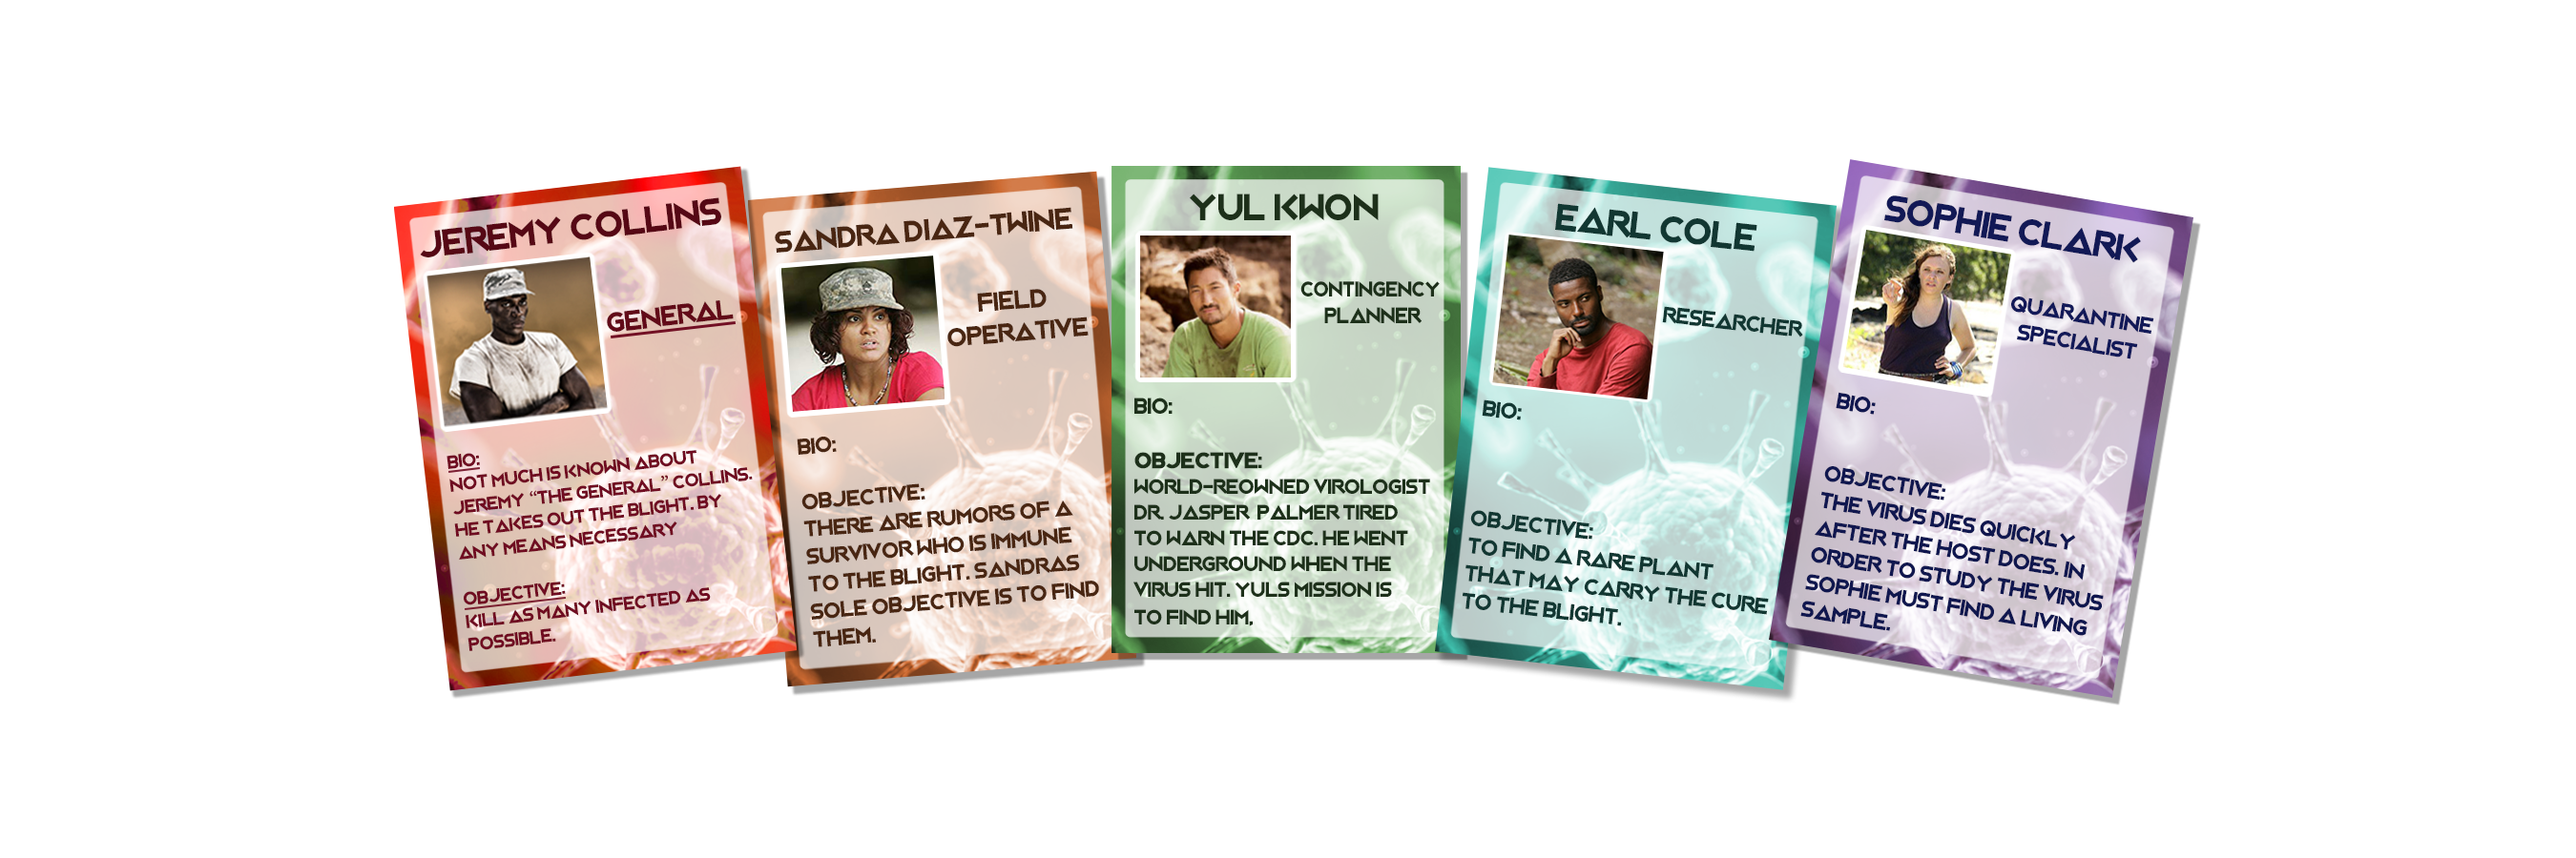
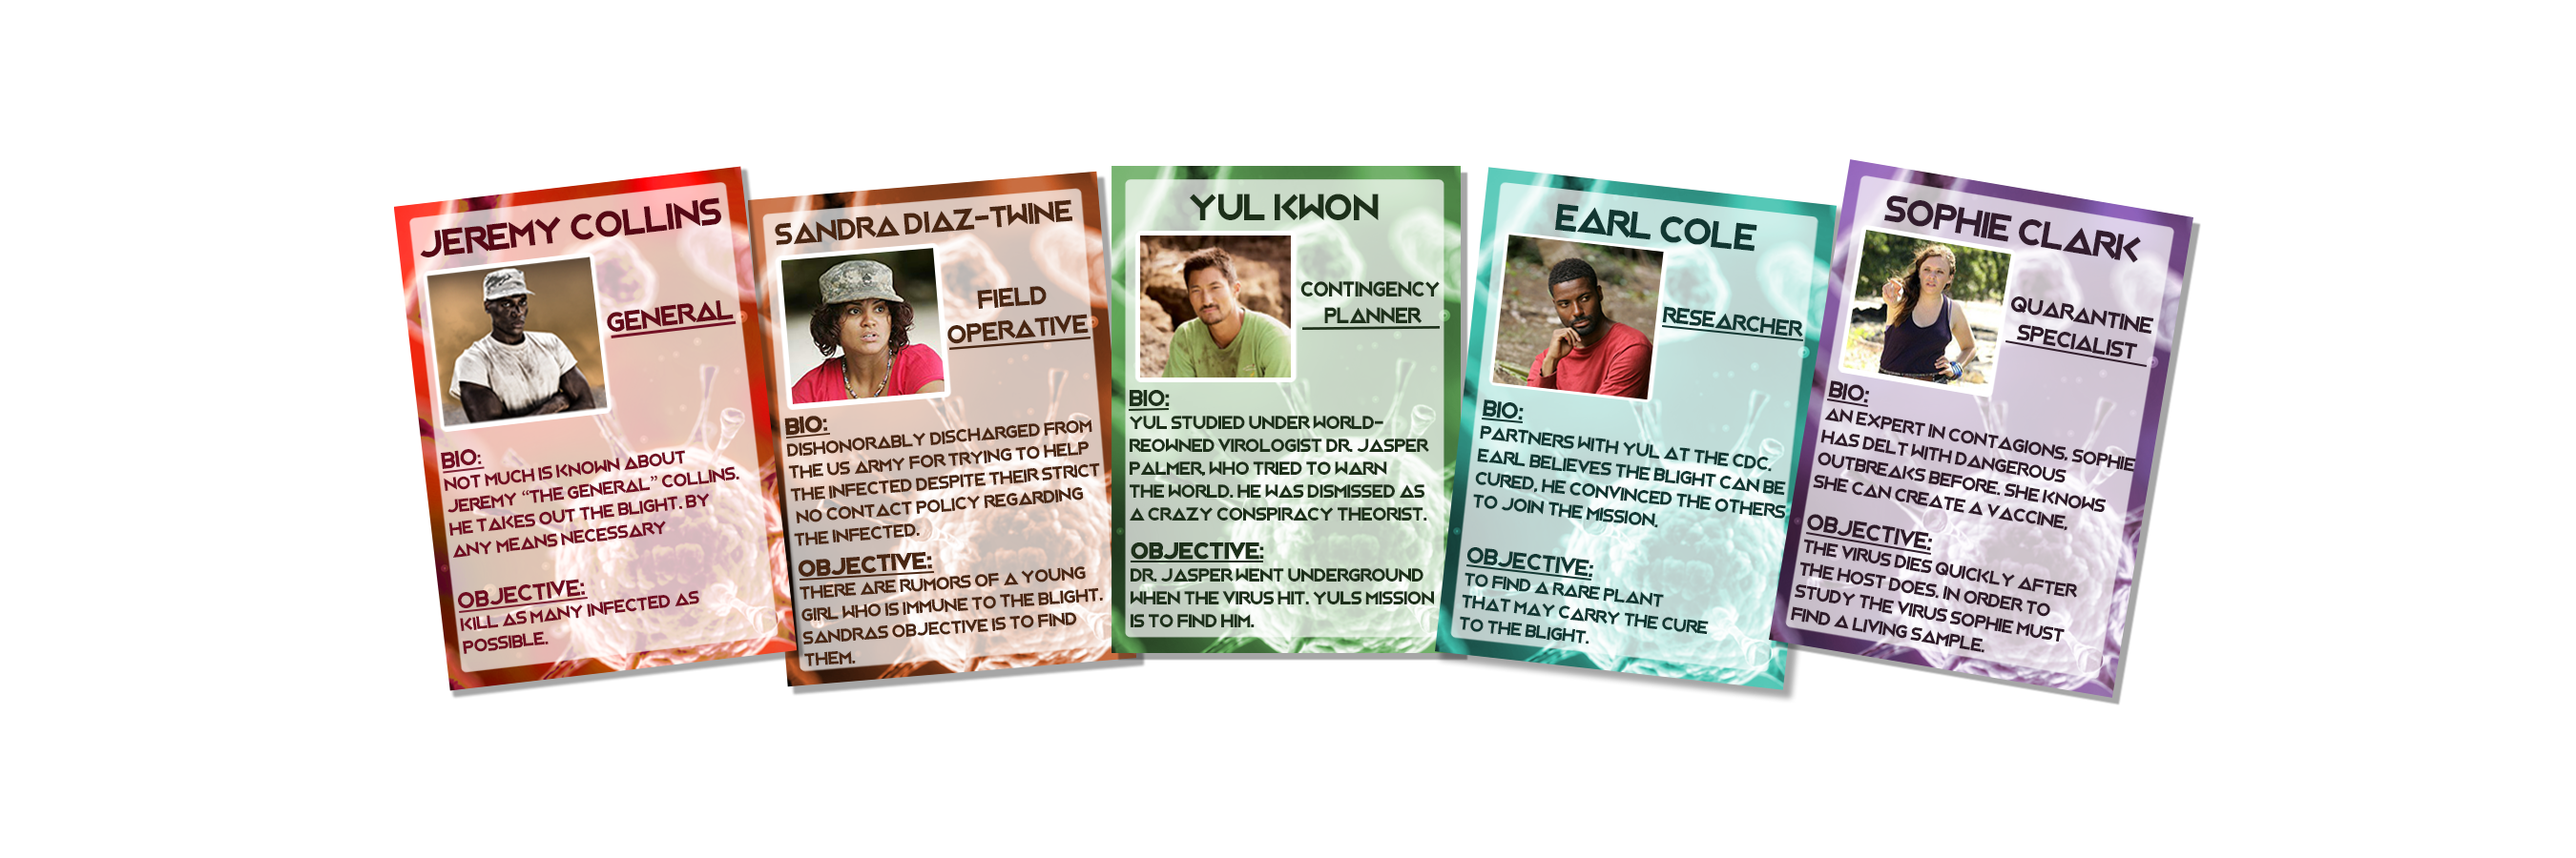
IntroandTeamSyles

diff --git a/src/components/Story/Story.js b/src/components/Story/Story.js
@@ -12,27 +12,21 @@ const Story = props => {
             <Col size="md-12">
               <div className="story">
                 <div className="img-container">
-                  <img className="staff" alt="group" src={group} style={{width: "1366"}}/>
+                  <img className="staff" alt="group" src={group} style={{width: "1766"}}/>
                 </div>
 
                 <div className="player-card">
-                  <p>Sed ut perspiciatis unde omnis iste natus error sit 
-                      voluptatem accusantium doloremque laudantium, totam r
-                      em aperiam, eaque ipsa quae ab illo inventore veritatis 
-                      et quasi architecto beatae vitae dicta sunt explicabo. 
-                      Nemo enim ipsam voluptatem quia voluptas sit aspernatur 
-                      aut odit aut fugit, sed quia consequuntur magni dolores 
-                      eos qui ratione voluptatem sequi nesciunt. Neque porro 
-                      quisquam est, qui dolorem ipsum quia dolor sit amet, 
-                      consectetur, adipisci velit, sed quia non numquam eius 
-                      modi tempora incidunt ut labore et dolore magnam aliquam 
-                      quaerat voluptatem. Ut enim ad minima veniam, quis nostrum 
-                      exercitationem ullam corporis suscipit laboriosam, nisi ut 
-                      aliquid ex ea commodi consequatur? Quis autem vel eum iure 
-                      reprehenderit qui in ea voluptate velit esse quam nihil 
-                      molestiae consequatur, vel illum qui dolorem eum fugiat 
-                      quo voluptas nulla pariatur?
-                      </p>
+                <p className="story">Send your personnel to the cities in his or her region to acquire the missing pieces. 
+                  The pieces will help you find the cure for the Zombie virus.  
+                  Sophie Clark in the Southeast, Earl Cole in the Northeast, Yul Kwon in the Midwest, 
+                  and Sandra Diaz-Twine in the West. Return these to the CDC in Atlanta. 
+                  The map shows infection levels throughout the United States: 
+                  Green means no infection, yellow is infection level at one, orange means two, and red is three. 
+                  If your personnel are in an infected city, you may choose to reduce infection by one. 
+                  General Collins can reduce infection by two, significantly reducing the Zombie virus in that city. 
+                  Every 4 moves or Zombie reductions you do will result in a new infection. If a city exceeds its maximum level of 
+                  infection, there will be an outbreak, and once there are 8 outbreaks, all hope is lost for humanity.</p>
+                      
               
                   {/* <button class="skipIntro" type="sumbit">SKIP INTRO</button> */}
                 </div>   

diff --git a/src/components/Instructions/Instructions.js b/src/components/Instructions/Instructions.js
@@ -50,15 +50,17 @@ class Instructions extends Component {
                   this.dropdownMenu = element;
                 }}
               >
-                <p>Send your personnel to the cities in his or her region in order to acquire the missing pieces
-                  that will help you find the cure for the Zombie virus.  Sophie Clark in the Southeast, Earl Cole 
-                  in the Northeast, Yul Kwon in the Midwest, and Sandra Diaz-Twine in the West. Return these to 
-                  the CDC in Atlanta. The map shows infection levels throughout the United States, green means 
-                  no infection, yellow is infection level at one, orange means two, and red=three. If your personnel
-                  are in an infected city, you may choose to reduce infection by one. General Collins can reduce infection
-                  by two, significantly reducing the Zombie virus in that city. Every 4 moves or 
-                  Zombie reductions you do will result in a new infection. If a city exceeds its maximum level of 
-                  infection, there will be an outbreak, and once there are 8 outbreaks, all hope is lost for humanity.</p>
+              <p className="story">Send your personnel to the cities in his or her region to acquire the missing pieces. </p>
+                  <p className="story">The pieces will help you find the cure for the Zombie virus.</p>  
+                  <p className="story">Sophie Clark in the Southeast, Earl Cole in the Northeast, Yul Kwon in the Midwest,</p> 
+                  <p className="story">and Sandra Diaz-Twine in the West. Return these to the CDC in Atlanta.</p> 
+                  <p className="story">The map shows infection levels throughout the United States:</p> 
+                  <p className="story">Green means no infection, yellow is infection level at one, orange means two, and red is three. </p>
+                  <p className="story">If your personnel are in an infected city, you may choose to reduce infection by one. </p>
+                  <p className="story">General Collins can reduce infection by two, significantly reducing the Zombie virus in that city.</p> 
+                  <p className="story">Every 4 moves will result in a new infection. </p>
+                  <p className="story">If a city exceeds its maximum level of infection, there will be an outbreak.</p> 
+                  <p className="story">and once there are 8 outbreaks, all hope is lost for humanity...</p>
               </div>
             )
             : (

diff --git a/src/components/pages/Intro/Intro.js b/src/components/pages/Intro/Intro.js
@@ -31,6 +31,11 @@ class Intro extends Component {
             sound={this.state.sound}
             audio={this.state.audio}
           />  
+          <p className="introtext">No one knows where the virus come from...</p> 
+          <p className="introtext">95% of the world is dead, the last 5% is ravaging for food & supplies.</p> 
+          <p className="introtext">Zombies are running the country...</p>
+          <p className="introtext">There's a team of 5 people that can save the world, but they need a new CDC Director.</p> 
+          <p className="introtext">The last director was infected by the virus...</p>
       </div>
     );
   }

diff --git a/src/components/pages/Characters/Characters.js b/src/components/pages/Characters/Characters.js
@@ -2,7 +2,6 @@ import React, { Component } from 'react';
 import SoundComponent from "../../SoundComponent";
 import Story from "../../Story";
 import './Characters.css';
-import blue from "../../images/blue.jpg"
 
 class Characters extends Component {
 
@@ -31,8 +30,8 @@ class Characters extends Component {
 
   render() {
     return (
-      <div className="characters" style={{ backgroundImage: `url(${blue})`}}>
-      <h1>Your Best People</h1>
+      <div className="characters">
+      <h1 className="team">Meet your team</h1>
         <SoundComponent
             sound={this.state.sound}
             audio={this.state.audio}

diff --git a/src/components/Story/Story.css b/src/components/Story/Story.css
@@ -6,8 +6,14 @@
     width: auto;
     height: auto;
     background-color: whitesmoke;
+    opacity: .9;
     margin-left: auto;
     margin-right: auto;
+    margin-top: -50px;
+}
+
+.story {
+    color: black;
 }
 
 .img-container {
@@ -15,15 +21,12 @@
     text-align: left;
     margin-left: 3px;
     margin-right: 3px;
-}
-
-.story {
-    text-align: center;
-    position: relative;
+    display:block;
+    margin:auto;
 }
 
 .staff {
-    display: block;
-    margin-left: auto;
-    margin-right: auto;
+    display:block;
+    margin-top: -100px;
+    margin-left: -350px;
 }

diff --git a/src/components/pages/Characters/Characters.css b/src/components/pages/Characters/Characters.css
@@ -1,7 +1,18 @@
 .characters {
-  background-image: url("../../images/blue.jpg");
+  background-image: url("../../images/metal.jpg");
   background-size: cover;
   background-position: center center;
   background-repeat: no-repeat;
   height: 860px;
+}
+
+.team {
+  font-family: 'Oswald', sans-serif;
+  font-weight:800;
+  text-transform:uppercase;
+  text-decoration:none;
+  font-size: 65px;
+  color: white;
+  padding-top: 65px;
+  text-shadow: black 5px 5px 20px;
 }

diff --git a/src/components/pages/Intro/Intro.css b/src/components/pages/Intro/Intro.css
@@ -5,3 +5,12 @@
     background-repeat: no-repeat;
     height: 860px;
 }
+
+.introtext {
+    font-family: 'Oswald', sans-serif;
+    font-weight:800;
+    text-transform:uppercase;
+    text-decoration:none;
+    font-size: 30px;
+    margin-top: 65px;
+}
